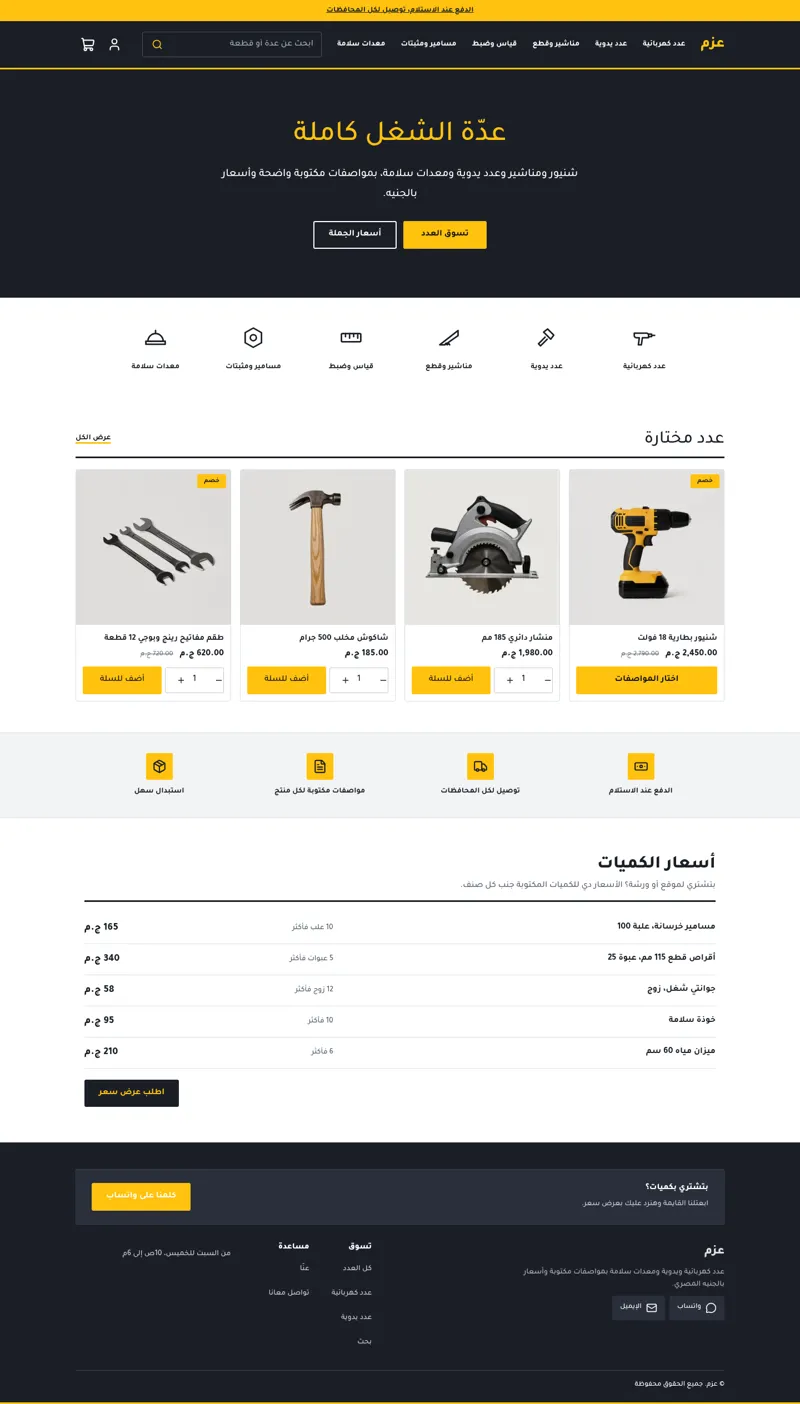
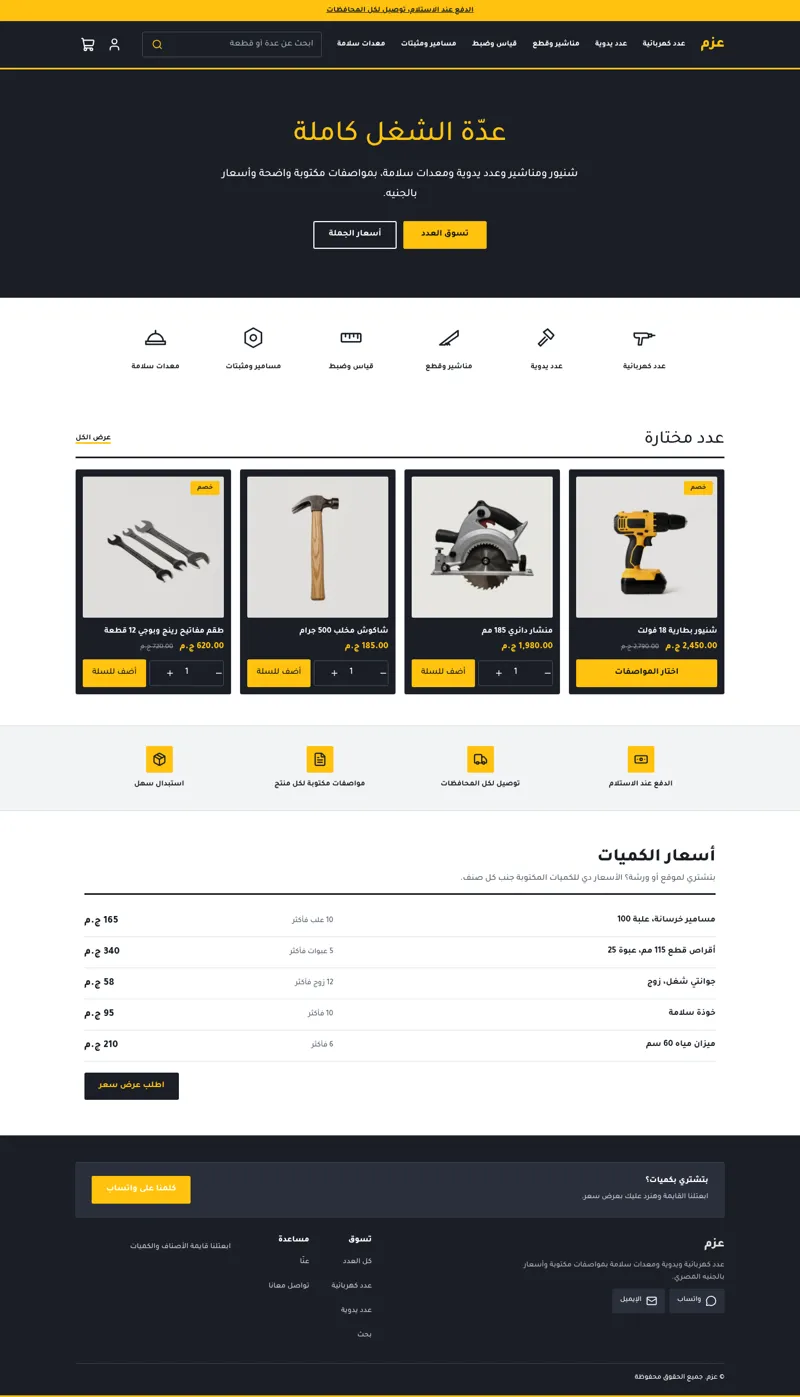
fix(examples): torque 1.0.1 — dark cards with framed photo, 44px qty, no invented hours

diff --git a/examples/themes/torque/assets/theme.css b/examples/themes/torque/assets/theme.css
@@ -443,3 +443,24 @@
 }
 .tq-scheme-primary .tq-logo, .tq-scheme-primary .tq-logo-text { color: var(--tq-y); }
 .tq-section-head { display: flex; flex-wrap: wrap; align-items: end; justify-content: space-between; gap: 8px 16px; }
+
+/* Fix round 1: dark cards, framed photo, 44px qty */
+.tq-card { background: var(--hk-color-secondary); border-color: var(--hk-color-steel); color: var(--hk-color-background); }
+.tq-card:hover { border-color: var(--tq-y); }
+.tq-card-plain { background: transparent; border-color: transparent; color: inherit; }
+.tq-card-link { padding: 12px 12px 0; }
+.tq-card-media { border: 0; border-radius: 3px; background: var(--hk-color-soft); }
+.tq-card-media .tq-badge { inset-block-start: 8px; inset-inline-start: 8px; }
+.tq-card-title { padding-inline: 0; color: var(--hk-color-background); }
+.tq-card .sn-price { padding-inline: 0; color: var(--tq-y); }
+.tq-card .sn-was { color: #A5ABB8; }
+.tq-card-buy { padding-inline: 12px; }
+.tq-card-buy .sn-qty { border-color: #4A5160; }
+.tq-card-buy .sn-qty-btn { min-width: 44px; color: var(--hk-color-background); }
+.tq-card-buy .sn-qty-input { width: 44px; color: var(--hk-color-background); }
+.tq-card-buy .sn-atc-button { flex: 1 1 88px; }
+@media (max-width: 639px) {
+  .tq-card-title, .tq-card .sn-price { padding-inline: 0; }
+  .tq-card-link { padding: 8px 8px 0; }
+  .tq-card-buy { padding-inline: 8px; }
+}
